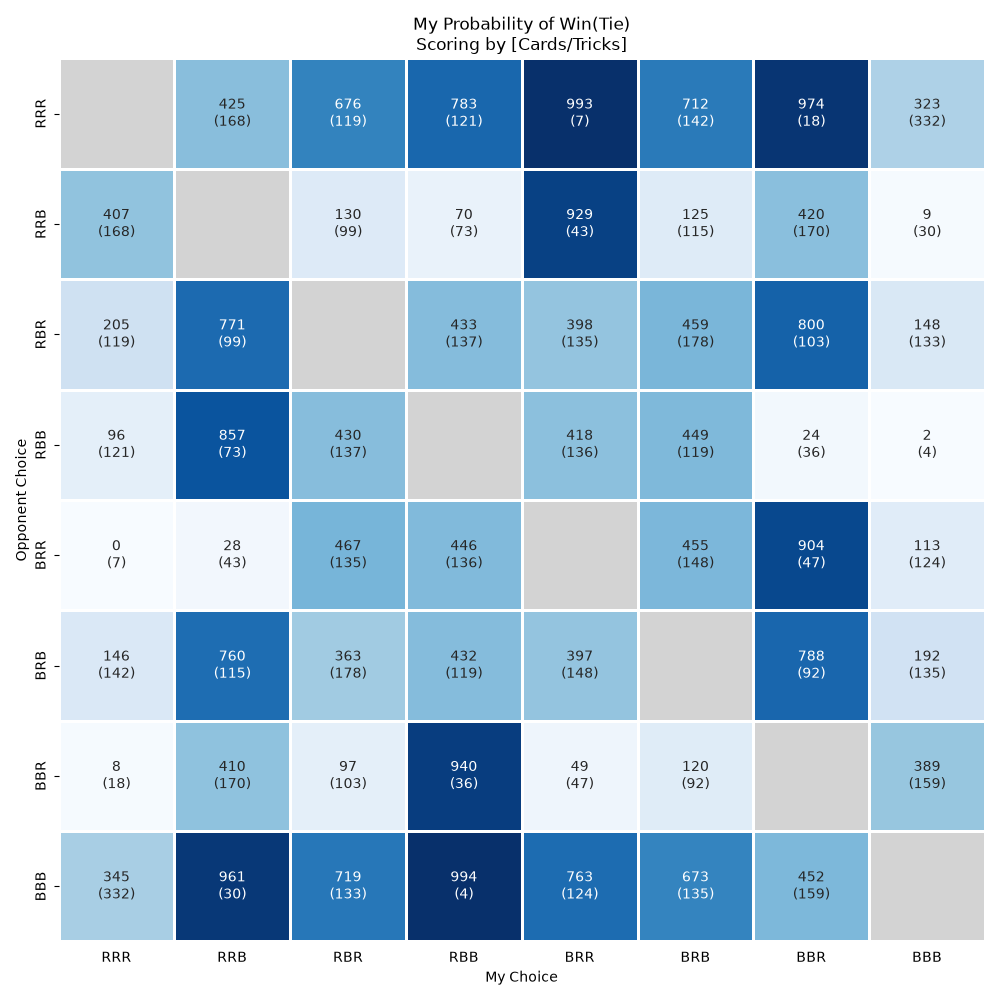
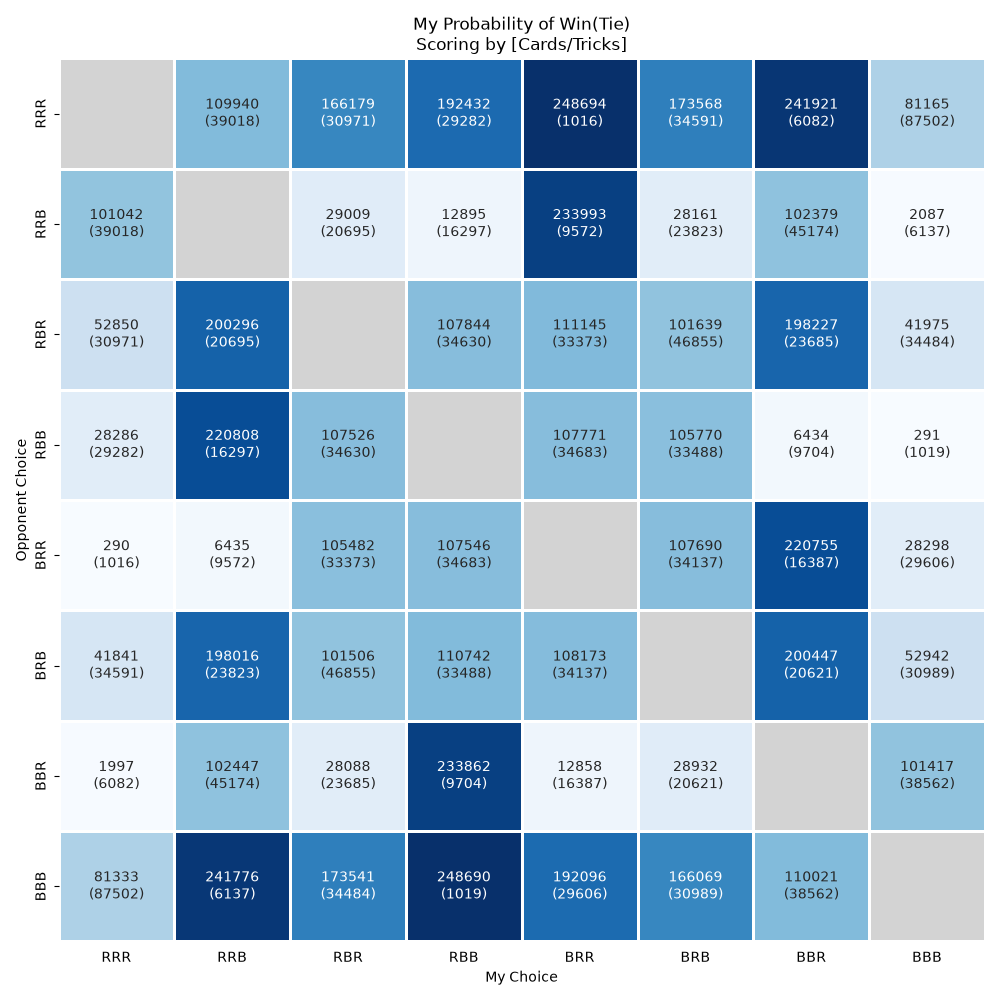
New version of datavis.py. Uses test input file datavis_test_input.csv.

diff --git a/src/datavis.py b/src/datavis.py
@@ -1,53 +1,79 @@
 # Data Visualization
-import src.paths as paths
 
-# Probably more complicated than it needs to be
 import pandas as pd
 import matplotlib as mpl
 import matplotlib.pyplot as plt
 import seaborn as sns
 
-def datavis(
-    wins: pd.DataFrame,
-    ties: pd.DataFrame
-) -> None:
+import src.paths as paths
 
-    # Currently written to use passed dataframes.
-    # Will change to read in .csv files and convert to dataframes.
-  
-    # Currently uses the two dataframes that contain the wins and ties
-    # Needs to be modified to still use two dataframes, but
-    # the first one will contain the results of the classic game,
-    # the second one will contain the results of Ron's game
-    # It will also be changed to expect a tuple in each dataframe cell
-    # This tuple will contain the # of wines and the # of ties
+def datavis(input_file="datavis_test_input.csv"):
+    '''
+    Create the heatmap from .csv file containing the results from
+    the simulations that were run.
+    '''
 
-    # Current function
-    simulation_wins_df = wins
-    simulation_ties_df = ties
+    print(f"Using {paths.PATH_DATA_CLEAN} as folder for input .csv file")
+    print(f"Using {input_file} as the input .csv file")
+    print(f"Using {paths.PATH_FIGURES} as folder for heatmap file")
 
-    # Create a new dataframe, "labels", from simulation_wins_df
+    # Read in .csv file and build dataframe
+    results_df = pd.read_csv(
+        paths.PATH_DATA_CLEAN / input_file,
+        dtype=str
+    )
+
+    # Reformat the dataframe
+    results_df = results_df.set_index(results_df.columns[0])
+    results_df.index.name = None
+    print("Results dataframe from input file")
+    print(results_df)
+    
+    def extract_wins(cell):
+        '''
+        Extract the wins as numeric from the tuple in each cell of the 
+        results_df. The heatmap must have numeric values in each cell
+        of the input dataframe in order to determine the colors to 
+        be used.
+        '''
+        first, second = cell.strip("()").split(",")
+        wins = int(first)
+        return wins
+        
+    # Obtain the wins in numeric format
+    # using the extract_wins function
+    # Place in new dataframe simulation_wins_df
+    # this will be used by heatmap
+    simulation_wins_df = results_df.map(extract_wins)
+
+    # Create a new dataframe, "annotations_df", from results_df
     # It will be used by sns.heatmap() for what text 
     # to display inside each cell of the heatmap.
     # 
-    # convert the wins to string
-    # convert the ties to string
-    # place the ties in paren
+    # Convert the tuple in the cells found in results_df 
+    # that contains "(wins,ties)" to a string that has "wins(ties)"
+    # For example: (76,7) which is 76 wins and 7 ties
+    # would be reformat to 76(7) place the ties in paren
     # to each cell
-    
-    labels_df = (
-        simulation_wins_df.astype(str)
-        + "\n"
-        + "("
-        + simulation_ties_df.astype(str)
-        + ")"
-    )
-    print(labels_df)
-    
+    def reformat_cell(cell):
+        '''
+        Reformat the cells from the results which are in tuple format
+        "(wins,ties)" to "wins(ties)"
+        This is due to Ron's heatmap formatting reqs.
+        '''
+        first, second = cell.strip("()").split(",")
+        s = f"{first}\n({second})"
+        return s
+
+    annotations_df = results_df.map(reformat_cell)
+
+    print("After reformatting results for use in heatmap")
+    print(annotations_df)
+   
     # Blank the diagonal of the dataframe
     # to comply with Ron's requirement
-    for i in range(labels_df.shape[0]):
-        labels_df.iloc[i,i] = " "
+    for i in range(annotations_df.shape[0]):
+        annotations_df.iloc[i,i] = " "
 
     # Create a mask 
     # A mask is essentially a dataframe, that contains only True or False.
@@ -69,7 +95,7 @@ def datavis(
     for i in range(mask_df.shape[0]):
         mask_df.iloc[i,i] = True
 
-    print(mask_df)
+
     # Plot Heatmap
     plt.figure(figsize=(10, 10))
     
@@ -79,7 +105,7 @@ def datavis(
     #    - Numeric values used to determine the cell colors
     #    - Values used by the color bar (cbar=True)
     
-    # labels is yet another dataframe that provides the text 
+    # annotations_df is yet another dataframe that provides the text 
     # annotations to be displayed inside each cell.
     
     # Obtain a colormap
@@ -90,11 +116,11 @@ def datavis(
     
     # Create a heatmap
     # Use dataframe simulation_wins_df for the structure
-    # Use dataframe label_df for the contents of the cells in the heatmap
+    # Use dataframe annotations_df for the contents of the cells in the heatmap
     # Use colormap created 
     ax = sns.heatmap(
         simulation_wins_df,
-        annot=labels_df,
+        annot=annotations_df,
         mask=mask_df,
         fmt="",
         cmap=colormap,
@@ -156,9 +182,7 @@ def datavis(
     plt.tight_layout()
     
     # Save the plot as a PNG file
-    # Save it in the figures folder
-    # Possibly use the 
-    plt.savefig('figures/Pennys_Game.png')
+    plt.savefig(paths.PATH_FIGURES / 'Pennys_Game.png')
     
     plt.show()
 
